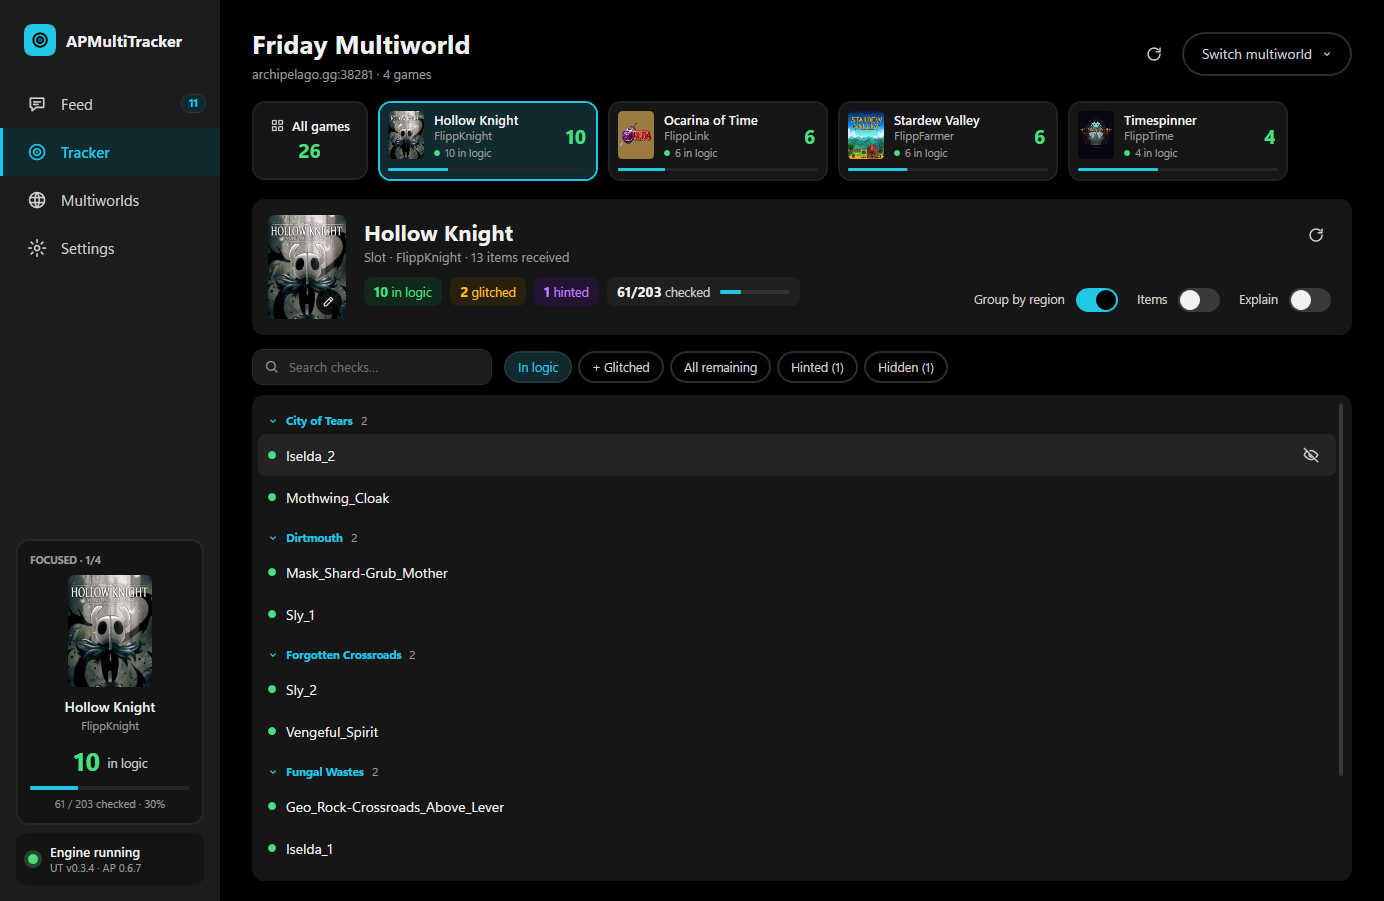
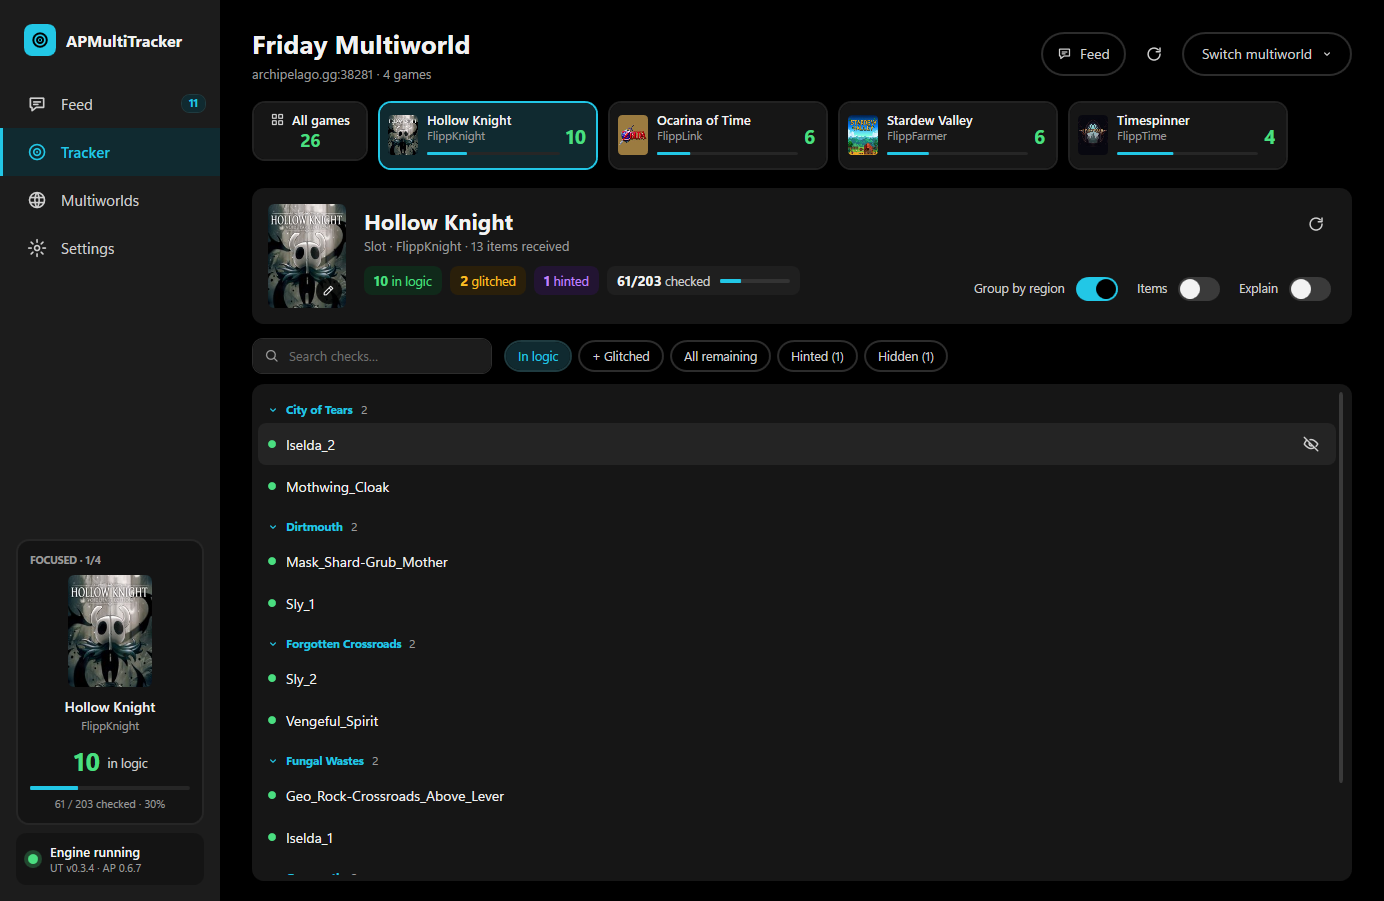
v0.6.0: reconnect silently dead connections, slimmer game cards, feed dock limits
Engine v0.4.0:
- Per-slot watchdog: track the last packet from the server; Bounce to self
  when quiet, and close + reconnect after APMT_STALE_SECONDS (240) of silence.
  Fixes trackers freezing on old numbers after a PC sleep / network drop.
- Cap CommonClient's unbounded reconnect backoff at 30 s.
- Keep retrying (every 60 s) when the first connection fails, and restore the
  slot name CommonClient clears on disconnect so retries don't wait on a
  console prompt.

App:
- Game cards: keep the big in-logic number, drop the duplicate "x in logic"
  line, progress bar in its place; status only when not tracking. Cards
  narrow (130-200 px, art hidden below 150) to stay on one row.
- Docked feed clamped so the tracker keeps a usable size and the feed can't
  push itself off-screen; narrow tracker shortens labels.

diff --git a/src/Pages/TrackerPage.xaml b/src/Pages/TrackerPage.xaml
@@ -127,42 +127,45 @@
 
         <!-- Game tile in the switcher -->
         <DataTemplate x:Key="GameTile" DataType="{x:Type local:SlotView}">
-            <Grid Width="200">
-                <Grid.RowDefinitions>
-                    <RowDefinition Height="*"/>
-                    <RowDefinition Height="Auto"/>
-                </Grid.RowDefinitions>
-                <DockPanel>
-                    <Border Width="36" Height="48" CornerRadius="4" local:Art.Url="{Binding ArtUrl}" DockPanel.Dock="Left"/>
-                    <StackPanel DockPanel.Dock="Right" VerticalAlignment="Center" Margin="6,0,2,0">
-                        <TextBlock Text="{Binding InLogicText}" FontSize="20" FontWeight="Bold" Foreground="{StaticResource InLogicBrush}"
-                                   HorizontalAlignment="Right"/>
-                    </StackPanel>
-                    <StackPanel Margin="10,0,0,0" VerticalAlignment="Center">
-                        <TextBlock Text="{Binding Title}" FontSize="13" FontWeight="SemiBold" TextTrimming="CharacterEllipsis"/>
-                        <TextBlock Text="{Binding SlotName}" FontSize="11.5" Foreground="{StaticResource SubBrush}" TextTrimming="CharacterEllipsis"/>
-                        <StackPanel Orientation="Horizontal" Margin="0,3,0,0">
+            <!-- Big green number = checks in logic. Under the names: the progress bar, or the status when it needs attention. -->
+            <DockPanel Width="{Binding DataContext.TileWidth, RelativeSource={RelativeSource AncestorType=UserControl}}">
+                <Border Width="30" Height="40" CornerRadius="4" local:Art.Url="{Binding ArtUrl}" DockPanel.Dock="Left" VerticalAlignment="Center"
+                        Margin="0,0,9,0" Visibility="{Binding DataContext.TileArtVisibility, RelativeSource={RelativeSource AncestorType=UserControl}}"/>
+                <TextBlock DockPanel.Dock="Right" Text="{Binding InLogicText}" FontSize="20" FontWeight="Bold" Foreground="{StaticResource InLogicBrush}"
+                           VerticalAlignment="Center" Margin="6,0,2,0" ToolTip="Checks in logic"/>
+                <StackPanel VerticalAlignment="Center">
+                    <TextBlock Text="{Binding Title}" FontSize="13" FontWeight="SemiBold" TextTrimming="CharacterEllipsis"/>
+                    <TextBlock Text="{Binding SlotName}" FontSize="11.5" Foreground="{StaticResource SubBrush}" TextTrimming="CharacterEllipsis"/>
+                    <Grid Margin="0,5,0,0" Height="12">
+                        <Border x:Name="Bar" Height="3" CornerRadius="2" Background="#262626" VerticalAlignment="Center"
+                                ToolTip="{Binding CheckedText}">
+                            <Border CornerRadius="2" Background="{StaticResource AccentBrush}" RenderTransformOrigin="0,0.5">
+                                <Border.RenderTransform>
+                                    <ScaleTransform ScaleX="{Binding Progress}"/>
+                                </Border.RenderTransform>
+                            </Border>
+                        </Border>
+                        <StackPanel x:Name="State" Orientation="Horizontal" Visibility="Collapsed" VerticalAlignment="Center">
                             <Ellipse Width="6" Height="6" Fill="{Binding StatusBrush}" VerticalAlignment="Center"/>
                             <TextBlock Text="{Binding StatusText}" FontSize="10.5" Foreground="{StaticResource SubBrush}" Margin="5,0,0,0"
                                        TextTrimming="CharacterEllipsis"/>
                         </StackPanel>
-                    </StackPanel>
-                </DockPanel>
-                <Border Grid.Row="1" Height="3" CornerRadius="2" Margin="0,8,0,0" Background="#262626">
-                    <Border CornerRadius="2" Background="{StaticResource AccentBrush}" RenderTransformOrigin="0,0.5">
-                        <Border.RenderTransform>
-                            <ScaleTransform ScaleX="{Binding Progress}"/>
-                        </Border.RenderTransform>
-                    </Border>
-                </Border>
-            </Grid>
+                    </Grid>
+                </StackPanel>
+            </DockPanel>
+            <DataTemplate.Triggers>
+                <DataTrigger Binding="{Binding IsTracking}" Value="False">
+                    <Setter TargetName="Bar" Property="Visibility" Value="Collapsed"/>
+                    <Setter TargetName="State" Property="Visibility" Value="Visible"/>
+                </DataTrigger>
+            </DataTemplate.Triggers>
         </DataTemplate>
     </UserControl.Resources>
 
     <!-- Tracker content, with the feed optionally docked on the right or along the bottom -->
     <Grid x:Name="DockRoot">
         <Grid.ColumnDefinitions>
-            <ColumnDefinition Width="*" MinWidth="420"/>
+            <ColumnDefinition x:Name="MainCol" Width="*" MinWidth="420"/>
             <ColumnDefinition x:Name="FeedSplitCol" Width="0"/>
             <ColumnDefinition x:Name="FeedCol" Width="0"/>
         </Grid.ColumnDefinitions>
@@ -227,7 +230,7 @@
         <DockPanel x:Name="Strip" Grid.Row="2" Margin="0,18,0,0">
             <RadioButton x:Name="AllTile" Style="{StaticResource GameTab}" DockPanel.Dock="Left" VerticalAlignment="Top" Margin="0,0,0,10"
                          Checked="AllTile_Checked" ToolTip="All games (Ctrl+0)">
-                <Grid Width="96" Height="59">
+                <Grid Width="96" Height="40">
                     <StackPanel VerticalAlignment="Center" HorizontalAlignment="Center">
                         <StackPanel Orientation="Horizontal" HorizontalAlignment="Center">
                             <Viewbox Width="15" Height="15" VerticalAlignment="Center">
@@ -235,8 +238,8 @@
                             </Viewbox>
                             <TextBlock Text="All games" FontSize="13" FontWeight="SemiBold" Margin="7,0,0,0"/>
                         </StackPanel>
-                        <TextBlock x:Name="AllCount" FontSize="20" FontWeight="Bold" Foreground="{StaticResource InLogicBrush}"
-                                   HorizontalAlignment="Center" Margin="0,2,0,0"/>
+                        <TextBlock x:Name="AllCount" FontSize="18" FontWeight="Bold" Foreground="{StaticResource InLogicBrush}"
+                                   HorizontalAlignment="Center" Margin="0,0,0,0"/>
                     </StackPanel>
                 </Grid>
             </RadioButton>

diff --git a/engine/apmultitracker/engine.py b/engine/apmultitracker/engine.py
@@ -30,6 +30,10 @@ from worlds import AutoWorld
 from . import ENGINE_VERSION
 
 DEFAULT_PORT = 38291
+# A slot that hears nothing from its server for this long is treated as dead and reconnects. Archipelago sends a
+# keep-alive every 100 s and the server echoes it, so a live connection is never this quiet.
+STALE_SECONDS = float(os.environ.get("APMT_STALE_SECONDS", "240"))
+MAX_RETRY_SECONDS = 30   # CommonClient doubles its reconnect delay forever; we cap it
 PERSIST_KEY = "apmultitracker"
 
 log = logging.getLogger("APMultiTracker")
@@ -111,7 +115,11 @@ class SlotContext(CommonContext):
         self.persist_id = ""
         self.room_seed = ""
         self.warning = ""
+        self.last_packet = time.monotonic()
+        self.last_attempt = time.monotonic()
+        self.retry_failed_connect = False   # first connection failed (e.g. room asleep): keep trying
         self.updater_task = asyncio.create_task(self._updater(), name=f"updater {sid}")
+        self.watchdog_task = asyncio.create_task(self._watchdog(), name=f"watchdog {sid}")
 
     # ---- connection
 
@@ -120,6 +128,9 @@ class SlotContext(CommonContext):
             self.set_status("error", "This room needs a password.")
             await self.disconnect(False)
             return
+        # CommonClient clears .auth when a connection closes and would otherwise ask the (absent) console for it.
+        if not self.auth:
+            self.auth = self.slot_name
         await self.get_username()
         await self.send_connect(game="")
 
@@ -133,12 +144,16 @@ class SlotContext(CommonContext):
 
     def handle_connection_loss(self, msg: str) -> None:
         log.warning(f"[{self.slot_name}] {msg}")
+        self.current_reconnect_delay = min(self.current_reconnect_delay, MAX_RETRY_SECONDS)
+        self.retry_failed_connect = not self.username and not self.disconnected_intentionally
         if "archipelago.gg" in self.requested_server.lower() and not self.logic_ready:
             # Hosted rooms sleep after a while idle and can come back on a different port.
             msg += (" If the room has been idle, open its page on archipelago.gg to wake it up, "
                     "and check the port hasn't changed.")
         if self.username and not self.disconnected_intentionally:
             self.set_status("reconnecting", msg + " Reconnecting…")
+        elif self.retry_failed_connect:
+            self.set_status("reconnecting", msg + " Trying again every minute…")
         else:
             self.set_status("error", msg)
 
@@ -155,6 +170,10 @@ class SlotContext(CommonContext):
             log.error(traceback.format_exc())
 
     def on_package(self, cmd: str, args: dict):
+        self.last_packet = time.monotonic()   # anything from the server proves the connection is alive
+        if cmd == "Connected":
+            self.retry_failed_connect = False
+            self.current_reconnect_delay = self.starting_reconnect_delay
         try:
             if cmd == "RoomInfo":
                 self.room_seed = args.get("seed_name", "")
@@ -521,9 +540,48 @@ class SlotContext(CommonContext):
             raise EngineError(f"{self.slot_name} isn't connected right now.")
         await self.send_msgs([{"cmd": "Say", "text": text}])
 
+    # ---- staying connected
+
+    def _socket_open(self) -> bool:
+        return bool(self.server and self.server.socket is not None and not self.server.socket.closed)
+
+    async def _watchdog(self):
+        """Notices connections that died silently (PC slept, network dropped) and keeps retrying ones that failed."""
+        tick = min(15.0, max(1.0, STALE_SECONDS / 8))
+        while True:
+            await asyncio.sleep(tick)
+            if self.status == "stopped":
+                return
+            self.current_reconnect_delay = min(self.current_reconnect_delay, MAX_RETRY_SECONDS)
+            now = time.monotonic()
+            try:
+                if self._socket_open() and self.slot is not None:
+                    quiet = now - self.last_packet
+                    if quiet > STALE_SECONDS:
+                        log.warning(f"[{self.slot_name}] Nothing from the server for {quiet:.0f}s; reconnecting")
+                        self.set_status("reconnecting", "The connection went quiet. Reconnecting…")
+                        try:
+                            await asyncio.wait_for(self.server.socket.close(), 10)
+                        except Exception:
+                            pass
+                        # server_loop ends, and CommonClient's auto-reconnect takes over (delay capped above)
+                    elif quiet > STALE_SECONDS / 2:
+                        # Bounce to ourselves: the server echoes it back, proving the connection works.
+                        await self.send_msgs([{"cmd": "Bounce", "slots": [self.slot]}])
+                elif self.retry_failed_connect and (self.server_task is None or self.server_task.done()) \
+                        and now - self.last_attempt > 60:
+                    self.last_attempt = now
+                    log.info(f"[{self.slot_name}] Retrying connection to {self.requested_server}")
+                    self.set_status("connecting", "")
+                    self.server_task = asyncio.create_task(server_loop(self, self.requested_server),
+                                                           name=f"server loop {self.sid}")
+            except Exception:
+                log.error(traceback.format_exc())
+
     async def stop(self):
         self.set_status("stopped", "")
         self.updater_task.cancel()
+        self.watchdog_task.cancel()
         await self.shutdown()
 
 

diff --git a/src/Pages/TrackerPage.xaml.cs b/src/Pages/TrackerPage.xaml.cs
@@ -16,6 +16,21 @@ namespace APMultiTracker;
 
 public partial class TrackerPage : UserControl, INotifyPropertyChanged
 {
+    private double _tileWidth = 200;
+    /// <summary>Game card width: as wide as 200, narrower (down to 130) so they stay on one row when space is tight.</summary>
+    public double TileWidth
+    {
+        get => _tileWidth;
+        private set
+        {
+            if (Math.Abs(_tileWidth - value) < 0.5) return;
+            _tileWidth = value;
+            PropertyChanged?.Invoke(this, new PropertyChangedEventArgs(nameof(TileWidth)));
+            PropertyChanged?.Invoke(this, new PropertyChangedEventArgs(nameof(TileArtVisibility)));
+        }
+    }
+    /// <summary>Narrow cards drop their small box art so the game name keeps its room.</summary>
+    public Visibility TileArtVisibility => _tileWidth < 150 ? Visibility.Collapsed : Visibility.Visible;
     private readonly ObservableCollection<CheckItem> _checks = new();
     private readonly ListCollectionView _view;
     private readonly DispatcherTimer _searchDebounce = new() { Interval = TimeSpan.FromMilliseconds(150) };
@@ -38,7 +53,10 @@ public partial class TrackerPage : UserControl, INotifyPropertyChanged
         App.Tracker.FocusChanged += RefreshAll;
         App.Engine.Changed += () => Dispatcher.InvokeAsync(UpdateBanner);
         BoxArt.Changed += _ => { if (_shown != null) Art.SetUrl(FArt, _shown.ArtUrl); };
-        SizeChanged += (_, _) => { UpdateColumnsWidth(); UpdateCompact(); FitExplainHeight(); };
+        SizeChanged += (_, _) => { UpdateColumnsWidth(); UpdateCompact(); FitExplainHeight(); ClampFeedDock(); };
+        MainContent.SizeChanged += (_, _) => { UpdateCompact(); UpdateTileWidth(); };
+        Strip.SizeChanged += (_, _) => UpdateTileWidth();
+        App.Tracker.Slots.CollectionChanged += (_, _) => UpdateTileWidth();
         OverviewScroll.SizeChanged += (_, _) => UpdateColumnsWidth();   // also fires when All games is first shown
         IsVisibleChanged += (_, e) => { if ((bool)e.NewValue) RefreshAll(); };
 
@@ -305,7 +323,28 @@ public partial class TrackerPage : UserControl, INotifyPropertyChanged
         foreach (var s in App.Tracker.Slots) s.ApplyOverviewGrouping();
     }
 
+    /// <summary>Shrink the game cards (to 130 px, art hidden below 150) before letting them wrap onto a second row.</summary>
+    private void UpdateTileWidth()
+    {
+        int n = App.Tracker.Slots.Count;
+        double avail = Strip.ActualWidth - AllTile.ActualWidth - AllTile.Margin.Right - 10;
+        if (n == 0 || avail <= 0) return;
+        const double chrome = 8 * 2 + 2 * 2 + 10;   // card padding, border and the gap after it
+        TileWidth = Math.Clamp(Math.Floor(avail / n - chrome), 130, 200);
+    }
+
     // ------------------------------------------------------------------ feed docked beside / under the tracker
+
+    /// <summary>The docked feed can't squeeze the tracker below a usable size (or push itself off-screen).</summary>
+    private void ClampFeedDock()
+    {
+        double w = DockRoot.ActualWidth, h = DockRoot.ActualHeight;
+        if (w <= 0 || h <= 0) return;
+        double mainMin = Math.Min(640, Math.Max(360, w - 16 - 300));
+        MainCol.MinWidth = mainMin;
+        FeedCol.MaxWidth = Math.Max(300, Math.Min(640, w - 16 - mainMin));
+        FeedRow.MaxHeight = Math.Max(150, h - 12 - 380);
+    }
 
     private void FeedBtn_Click(object sender, RoutedEventArgs e)
     {
@@ -345,6 +384,7 @@ public partial class TrackerPage : UserControl, INotifyPropertyChanged
             MainContent.Margin = new Thickness(32, 26, 32, on ? 0 : 20);
         }
         DockedFeed.SetDockPosition(right ? "Right" : "Bottom");
+        ClampFeedDock();
 
         var accent = (Brush)FindResource("AccentBrush");
         var normal = (Brush)FindResource("Text2Brush");
@@ -381,9 +421,14 @@ public partial class TrackerPage : UserControl, INotifyPropertyChanged
         FHeader.Padding = compact ? new Thickness(16, 10, 12, 4) : new Thickness(16);
         FTitle.FontSize = compact ? 18 : 22;
         ViewToggles.Margin = compact ? new Thickness(0, 40, 4, 4) : new Thickness(0, 44, 4, 6);
-        // Narrow windows: a smaller search box keeps search + filters on one line.
+        // Narrow tracker (small window or a wide docked feed): shorter labels and a smaller search box.
+        double w = MainContent.ActualWidth;
+        bool narrow = w > 0 && w < 820;
         Search.Width = double.NaN;
-        if (Search.Parent is FrameworkElement box) box.Width = ActualWidth > 0 && ActualWidth < 1000 ? 180 : 240;
+        if (Search.Parent is FrameworkElement box) box.Width = narrow ? 170 : 240;
+        GroupToggle.Content = narrow ? "Regions" : "Group by region";
+        FeedBtnText.Visibility = w > 0 && w < 700 ? Visibility.Collapsed : Visibility.Visible;
+        FArtBox.Visibility = compact || (w > 0 && w < 640) ? Visibility.Collapsed : Visibility.Visible;
     }
 
     /// <summary>Keep at least a few checks visible: the explain panel never takes more than the room left over.</summary>

diff --git a/src/Core/Demo.cs b/src/Core/Demo.cs
@@ -201,6 +201,29 @@ public static class Demo
         w.CloseMultiworldEditor();
         w.GoToSettings();
         await Shot("settings");
+        if (Environment.GetEnvironmentVariable("APMT_SHOT_FEED") == "1")
+        {
+            // Checks the docked feed's limits at a typical window size (not used for the README).
+            w.GoToTracker();
+            w.Width = 1486; w.Height = 933;
+            App.Config.ShowFeedInTracker = true;
+            foreach (var (dock, size, name) in new[] { ("Right", 400.0, "feedcheck-right-default"), ("Right", 2000.0, "feedcheck-right-dragged-wide"),
+                                                      ("Bottom", 2000.0, "feedcheck-bottom-dragged-tall") })
+            {
+                App.Config.FeedDock = dock;
+                if (dock == "Right") App.Config.FeedDockWidth = size; else App.Config.FeedDockHeight = size;
+                w.TrackerView.ApplyFeedDock();
+                App.Tracker.SetFocus(null);
+                await Shot(name);
+            }
+            App.Config.FeedDock = "Right"; App.Config.FeedDockWidth = 400;
+            w.TrackerView.ApplyFeedDock();
+            App.Tracker.SetFocus(App.Tracker.Slots[3]);
+            await Shot("feedcheck-right-focused");
+            App.Config.ShowFeedInTracker = false;
+            w.TrackerView.ApplyFeedDock();
+            w.Width = 1400; w.Height = 940;
+        }
         if (Environment.GetEnvironmentVariable("APMT_SHOT_SMALL") == "1")
         {
             // Checks the layout at a smaller window size (not used for the README).

diff --git a/engine/apmultitracker/__init__.py b/engine/apmultitracker/__init__.py
@@ -13,7 +13,7 @@ from settings import Group
 from worlds.AutoWorld import World
 from worlds.LauncherComponents import Component, Type, components, icon_paths
 
-ENGINE_VERSION = "0.3.0"
+ENGINE_VERSION = "0.4.0"
 COMPONENT_NAME = "APMultiTracker Engine"
 
 

diff --git a/CHANGELOG.md b/CHANGELOG.md
@@ -1,5 +1,19 @@
 # Changelog
 
+## v0.6.0
+
+- **Stays up to date when left running** (engine v0.4.0): a connection that dies silently (PC asleep, Wi-Fi drop,
+  router or host dropping an idle connection) used to leave the tracker frozen on old numbers. Each slot now notices
+  when its server goes quiet, checks the connection, and reconnects by itself, then catches up. Retries are capped at
+  about a minute apart (they used to back off to hours), and a room that's down when the app starts (such as a
+  sleeping archipelago.gg room) is retried every minute until it's back.
+- **Slimmer game cards**: the big green number stays; the "x in logic" line is gone and the progress bar sits in its
+  place, so the cards are shorter. Status (Connecting, Reconnecting, Error) shows there only when it needs attention.
+- **Cards fit beside the feed**: with the feed docked, the cards narrow (down to 130 px, dropping their small art)
+  to stay on one row before wrapping.
+- **Feed dock limits**: the docked feed can't be dragged so wide (or tall) that it squeezes the tracker or pushes
+  itself off-screen. On a narrow tracker, labels shorten and the Feed button shows just its icon.
+
 ## v0.5.0
 
 - **Feed and Tracker together**: a new **Feed** button on the Tracker shows the feed right next to your checks,
